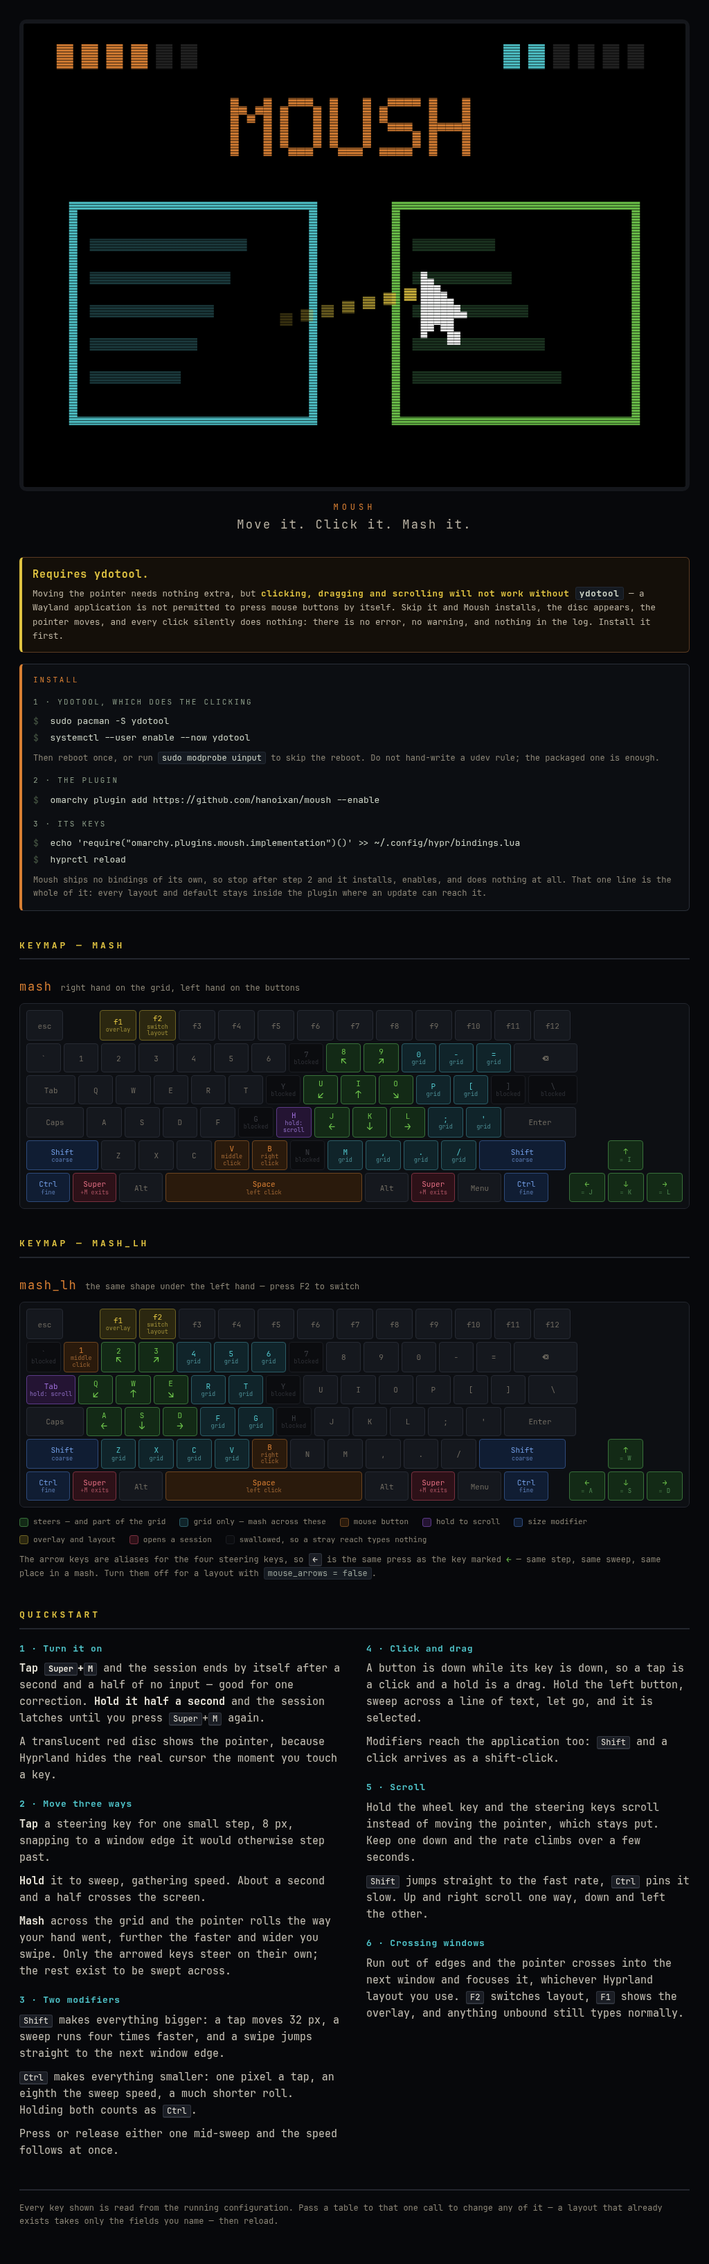
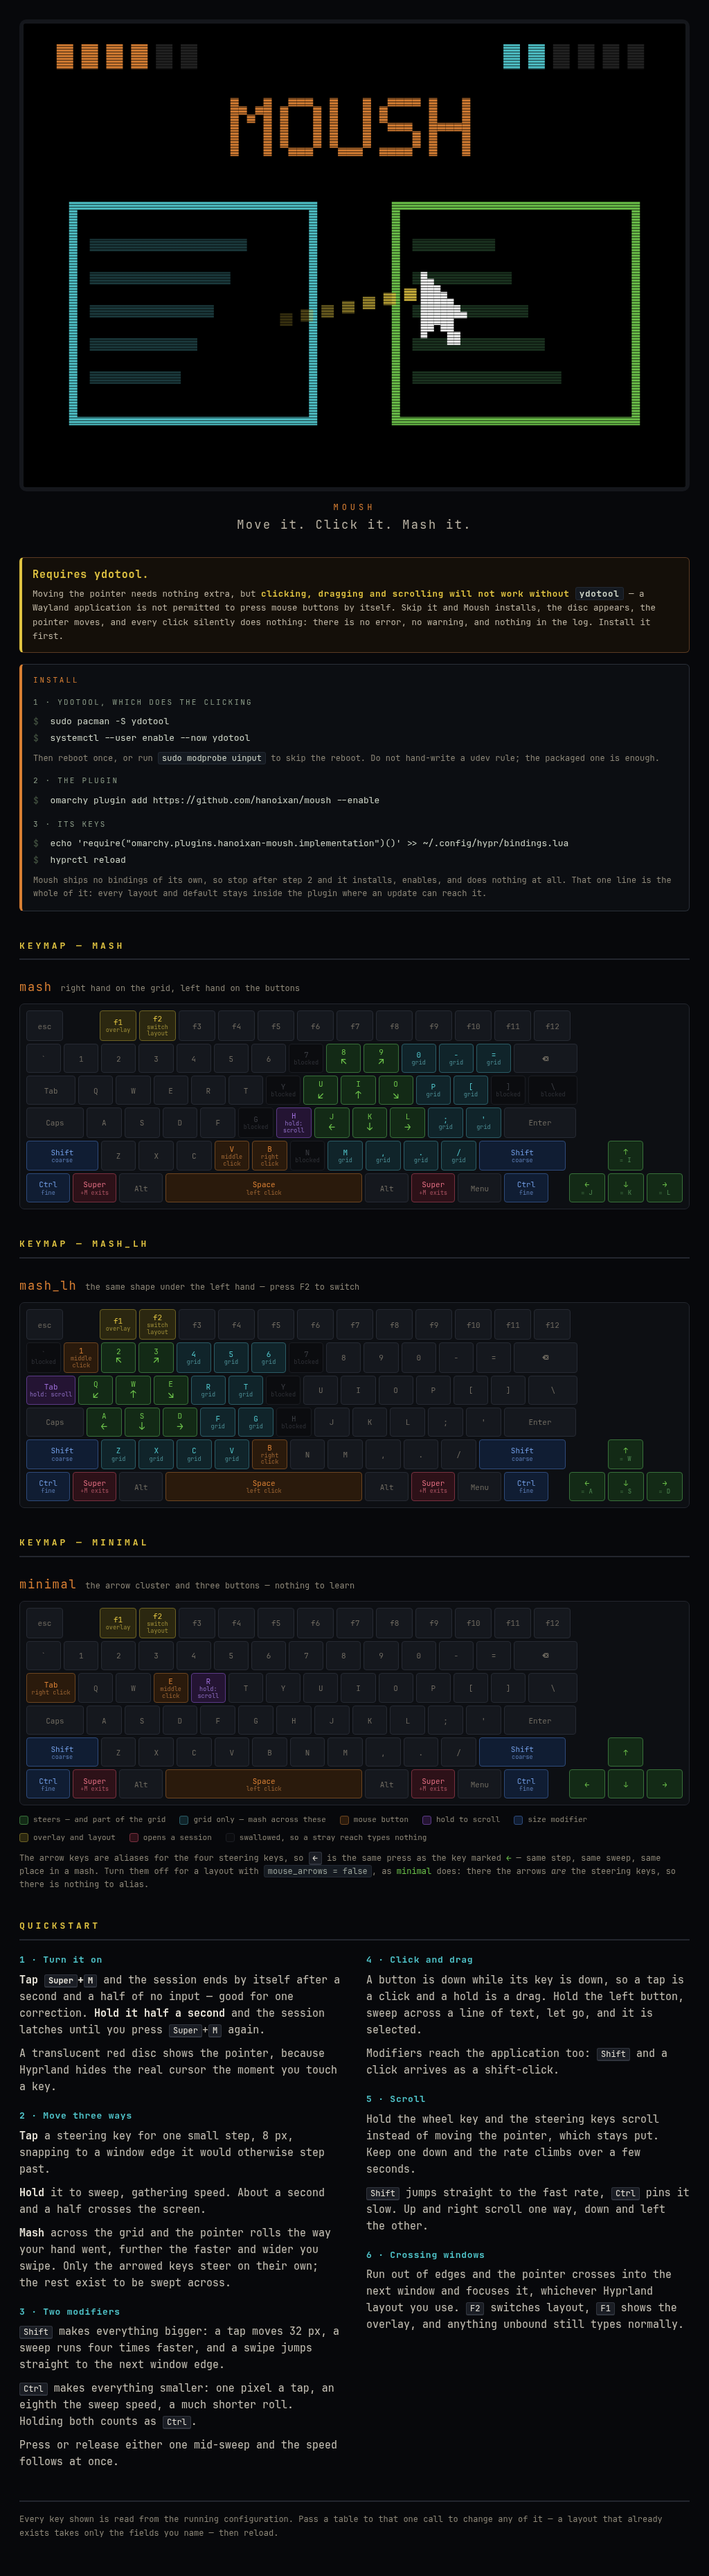
Namespace the plugin id as hanoixan-moush, and publish under the handle
The marketplace documents a namespaced id, with "yourname.plugin" as its example,
so a bare "moush" risks a reviewer asking for it to be renamed after publication.
A dot cannot be used here: the id becomes the install folder name, and require()
turns every dot into a directory separator, so a folder named moush.plugin is
unreachable by any dotted module path -- measured, Lua goes looking for
plugins/moush/plugin/implementation.lua instead. A hyphen namespaces it just as
well and keeps the one-line require, which was verified to load and to pass an
options table through.

Renamed the folder, the manifest id, the shell.json enablement record, and every
reference in the README, the page and the example. The GitHub URL is untouched:
the install folder is named from the manifest id, not the repo.

The author is the handle rather than a legal name, in the manifest and in the
LICENSE copyright line.

Verified after the rename: the manifest validates, the catalog lists
hanoixan-moush, the old id answers "unknown", all three submaps bind, and a
session opens, steers, mashes, clicks, cycles all three layouts and exits.

Claude-Session: https://claude.ai/code/session_01QCQs9JcoiEdegEtcQ2pzbD

diff --git a/docs/moush.html b/docs/moush.html
@@ -108,7 +108,7 @@ reboot. Do not hand-write a udev rule; the packaged one is enough.</p>
 <div class="cmd"><span class="p">$</span> omarchy plugin add https://github.com/hanoixan/moush --enable</div>
 
 <div class="istep">3 &middot; its keys</div>
-<div class="cmd"><span class="p">$</span> echo 'require("omarchy.plugins.moush.implementation")()' &gt;&gt; ~/.config/hypr/bindings.lua</div>
+<div class="cmd"><span class="p">$</span> echo 'require("omarchy.plugins.hanoixan-moush.implementation")()' &gt;&gt; ~/.config/hypr/bindings.lua</div>
 <div class="cmd"><span class="p">$</span> hyprctl reload</div>
 <p class="inote">Moush ships no bindings of its own, so stop after step 2 and it
 installs, enables, and does nothing at all. That one line is the whole of it: every
@@ -322,11 +322,116 @@ layout and default stays inside the plugin where an update can reach it.</p>
 <div class="key r-steer" style="flex:1"><span class="cap">→</span><span class="note alias">= D</span></div>
 </div>
 </div>
+
+<h2>Keymap &mdash; minimal</h2>
+<div class="modename"><span class="n">minimal</span>
+<span class="d">the arrow cluster and three buttons &mdash; nothing to learn</span></div>
+<div class="kb">
+<div class="kbrow">
+<div class="key" style="flex:1"><span class="cap">esc</span></div>
+<div class="kgap" style="flex:1"></div>
+<div class="key r-glob" style="flex:1"><span class="cap">f1</span><span class="note">overlay</span></div>
+<div class="key r-glob" style="flex:1"><span class="cap">f2</span><span class="note">switch layout</span></div>
+<div class="key" style="flex:1"><span class="cap">f3</span></div>
+<div class="key" style="flex:1"><span class="cap">f4</span></div>
+<div class="key" style="flex:1"><span class="cap">f5</span></div>
+<div class="key" style="flex:1"><span class="cap">f6</span></div>
+<div class="key" style="flex:1"><span class="cap">f7</span></div>
+<div class="key" style="flex:1"><span class="cap">f8</span></div>
+<div class="key" style="flex:1"><span class="cap">f9</span></div>
+<div class="key" style="flex:1"><span class="cap">f10</span></div>
+<div class="key" style="flex:1"><span class="cap">f11</span></div>
+<div class="key" style="flex:1"><span class="cap">f12</span></div>
+<div class="kgap" style="flex:3.5"></div>
+</div>
+<div class="kbrow">
+<div class="key" style="flex:1"><span class="cap">`</span></div>
+<div class="key" style="flex:1"><span class="cap">1</span></div>
+<div class="key" style="flex:1"><span class="cap">2</span></div>
+<div class="key" style="flex:1"><span class="cap">3</span></div>
+<div class="key" style="flex:1"><span class="cap">4</span></div>
+<div class="key" style="flex:1"><span class="cap">5</span></div>
+<div class="key" style="flex:1"><span class="cap">6</span></div>
+<div class="key" style="flex:1"><span class="cap">7</span></div>
+<div class="key" style="flex:1"><span class="cap">8</span></div>
+<div class="key" style="flex:1"><span class="cap">9</span></div>
+<div class="key" style="flex:1"><span class="cap">0</span></div>
+<div class="key" style="flex:1"><span class="cap">-</span></div>
+<div class="key" style="flex:1"><span class="cap">=</span></div>
+<div class="key" style="flex:2"><span class="cap">⌫</span></div>
+<div class="kgap" style="flex:3.5"></div>
+</div>
+<div class="kbrow">
+<div class="key r-btn" style="flex:1.5"><span class="cap">Tab</span><span class="note">right click</span></div>
+<div class="key" style="flex:1"><span class="cap">Q</span></div>
+<div class="key" style="flex:1"><span class="cap">W</span></div>
+<div class="key r-btn" style="flex:1"><span class="cap">E</span><span class="note">middle click</span></div>
+<div class="key r-wheel" style="flex:1"><span class="cap">R</span><span class="note">hold: scroll</span></div>
+<div class="key" style="flex:1"><span class="cap">T</span></div>
+<div class="key" style="flex:1"><span class="cap">Y</span></div>
+<div class="key" style="flex:1"><span class="cap">U</span></div>
+<div class="key" style="flex:1"><span class="cap">I</span></div>
+<div class="key" style="flex:1"><span class="cap">O</span></div>
+<div class="key" style="flex:1"><span class="cap">P</span></div>
+<div class="key" style="flex:1"><span class="cap">[</span></div>
+<div class="key" style="flex:1"><span class="cap">]</span></div>
+<div class="key" style="flex:1.5"><span class="cap">\</span></div>
+<div class="kgap" style="flex:3.5"></div>
+</div>
+<div class="kbrow">
+<div class="key" style="flex:1.75"><span class="cap">Caps</span></div>
+<div class="key" style="flex:1"><span class="cap">A</span></div>
+<div class="key" style="flex:1"><span class="cap">S</span></div>
+<div class="key" style="flex:1"><span class="cap">D</span></div>
+<div class="key" style="flex:1"><span class="cap">F</span></div>
+<div class="key" style="flex:1"><span class="cap">G</span></div>
+<div class="key" style="flex:1"><span class="cap">H</span></div>
+<div class="key" style="flex:1"><span class="cap">J</span></div>
+<div class="key" style="flex:1"><span class="cap">K</span></div>
+<div class="key" style="flex:1"><span class="cap">L</span></div>
+<div class="key" style="flex:1"><span class="cap">;</span></div>
+<div class="key" style="flex:1"><span class="cap">&#x27;</span></div>
+<div class="key" style="flex:2.25"><span class="cap">Enter</span></div>
+<div class="kgap" style="flex:3.5"></div>
+</div>
+<div class="kbrow">
+<div class="key r-mod" style="flex:2.25"><span class="cap">Shift</span><span class="note">coarse</span></div>
+<div class="key" style="flex:1"><span class="cap">Z</span></div>
+<div class="key" style="flex:1"><span class="cap">X</span></div>
+<div class="key" style="flex:1"><span class="cap">C</span></div>
+<div class="key" style="flex:1"><span class="cap">V</span></div>
+<div class="key" style="flex:1"><span class="cap">B</span></div>
+<div class="key" style="flex:1"><span class="cap">N</span></div>
+<div class="key" style="flex:1"><span class="cap">M</span></div>
+<div class="key" style="flex:1"><span class="cap">,</span></div>
+<div class="key" style="flex:1"><span class="cap">.</span></div>
+<div class="key" style="flex:1"><span class="cap">/</span></div>
+<div class="key r-mod" style="flex:2.75"><span class="cap">Shift</span><span class="note">coarse</span></div>
+<div class="kgap" style="flex:1.25"></div>
+<div class="key r-steer" style="flex:1"><span class="cap">↑</span></div>
+<div class="kgap" style="flex:1.25"></div>
+</div>
+<div class="kbrow">
+<div class="key r-mod" style="flex:1.25"><span class="cap">Ctrl</span><span class="note">fine</span></div>
+<div class="key r-chord" style="flex:1.25"><span class="cap">Super</span><span class="note">+M exits</span></div>
+<div class="key" style="flex:1.25"><span class="cap">Alt</span></div>
+<div class="key r-btn" style="flex:6.25"><span class="cap">Space</span><span class="note">left click</span></div>
+<div class="key" style="flex:1.25"><span class="cap">Alt</span></div>
+<div class="key r-chord" style="flex:1.25"><span class="cap">Super</span><span class="note">+M exits</span></div>
+<div class="key" style="flex:1.25"><span class="cap">Menu</span></div>
+<div class="key r-mod" style="flex:1.25"><span class="cap">Ctrl</span><span class="note">fine</span></div>
+<div class="kgap" style="flex:0.5"></div>
+<div class="key r-steer" style="flex:1"><span class="cap">←</span></div>
+<div class="key r-steer" style="flex:1"><span class="cap">↓</span></div>
+<div class="key r-steer" style="flex:1"><span class="cap">→</span></div>
+</div>
+</div>
 <div class="legend"><span><i class="sw" style="background:#132a16;border-color:#38703a"></i>steers &mdash; and part of the grid</span><span><i class="sw" style="background:#10242a;border-color:#2b5c66"></i>grid only &mdash; mash across these</span><span><i class="sw" style="background:#2a1a0c;border-color:#6d4520"></i>mouse button</span><span><i class="sw" style="background:#241433;border-color:#5b3a86"></i>hold to scroll</span><span><i class="sw" style="background:#101d33;border-color:#2e4a7a"></i>size modifier</span><span><i class="sw" style="background:#2b2710;border-color:#6d6224"></i>overlay and layout</span><span><i class="sw" style="background:#2d1118;border-color:#79303f"></i>opens a session</span><span><i class="sw" style="background:#0b0c0f;border-color:#1b1d22"></i>swallowed, so a stray reach types nothing</span></div>
 <p class="arrows">The arrow keys are aliases for the four steering keys, so
 <kbd>&larr;</kbd> is the same press as the key marked <span class="ar">&larr;</span>
 &mdash; same step, same sweep, same place in a mash. Turn them off for a layout
-with <code>mouse_arrows = false</code>.</p>
+with <code>mouse_arrows = false</code>, as <span class="ar">minimal</span> does:
+there the arrows <em>are</em> the steering keys, so there is nothing to alias.</p>
 
 
 <h2>Quickstart</h2>

diff --git a/Moush.qml b/Moush.qml
@@ -1325,7 +1325,9 @@ Item {
   }
 
   // ---- the debug overlay -----------------------------------------------------
-  property bool mashDebug: true
+  // Off on a fresh install: the overlay is a tool, not the product. F1 shows it.
+  // Not persisted, so it is off again after a shell restart.
+  property bool mashDebug: false
   property var dbgHits: []                    // {name, t} of the cluster's presses
   property var dbgStrats: ({})                // name -> {x, y, t}
   property real dbgDriveX: 0

diff --git a/tools/genpage.py b/tools/genpage.py
@@ -76,6 +76,10 @@ def keyboard(mode):
             if name == "":
                 out.append('<div class="kgap" style="flex:%g"></div>' % w); continue
             role, note = r.get(name, (None,None))
+            # On a layout that steers with the arrow keys themselves, the cap and
+            # the direction glyph are the same character. Showing it twice reads
+            # as a rendering fault, so say it once.
+            if note == lab: note = None
             cls = "key" + (" r-"+role if role else "")
             cls_note = "note alias" if (note or "").startswith("= ") else "note"
             sub = '<span class="%s">%s</span>' % (cls_note, html.escape(note)) if note else ""
@@ -311,7 +315,7 @@ reboot. Do not hand-write a udev rule; the packaged one is enough.</p>
 <div class="cmd"><span class="p">$</span> omarchy plugin add https://github.com/hanoixan/moush --enable</div>
 
 <div class="istep">3 &middot; its keys</div>
-<div class="cmd"><span class="p">$</span> echo 'require("omarchy.plugins.moush.implementation")()' &gt;&gt; ~/.config/hypr/bindings.lua</div>
+<div class="cmd"><span class="p">$</span> echo 'require("omarchy.plugins.hanoixan-moush.implementation")()' &gt;&gt; ~/.config/hypr/bindings.lua</div>
 <div class="cmd"><span class="p">$</span> hyprctl reload</div>
 <p class="inote">Moush ships no bindings of its own, so stop after step 2 and it
 installs, enables, and does nothing at all. That one line is the whole of it: every
@@ -327,11 +331,17 @@ layout and default stays inside the plugin where an update can reach it.</p>
 <div class="modename"><span class="n">mash_lh</span>
 <span class="d">the same shape under the left hand &mdash; press F2 to switch</span></div>
 @@KB2@@
+
+<h2>Keymap &mdash; minimal</h2>
+<div class="modename"><span class="n">minimal</span>
+<span class="d">the arrow cluster and three buttons &mdash; nothing to learn</span></div>
+@@KB3@@
 @@LEGEND@@
 <p class="arrows">The arrow keys are aliases for the four steering keys, so
 <kbd>&larr;</kbd> is the same press as the key marked <span class="ar">&larr;</span>
 &mdash; same step, same sweep, same place in a mash. Turn them off for a layout
-with <code>mouse_arrows = false</code>.</p>
+with <code>mouse_arrows = false</code>, as <span class="ar">minimal</span> does:
+there the arrows <em>are</em> the steering keys, so there is nothing to alias.</p>
 
 @@QUICK@@
 
@@ -352,6 +362,7 @@ leg = '<div class="legend">' + "".join(
 out = (doc.replace("@@HERO@@", hero())
           .replace("@@KB1@@", keyboard("mash"))
           .replace("@@KB2@@", keyboard("mash_lh"))
+          .replace("@@KB3@@", keyboard("minimal"))
           .replace("@@LEGEND@@", leg)
           .replace("@@QUICK@@", QUICK))
 open(os.path.join(REPO, "docs", "moush.html"), "w").write(out)

diff --git a/README.md b/README.md
@@ -67,7 +67,7 @@ before you say yes.
 this step nothing responds:
 
 ```bash
-echo 'require("omarchy.plugins.moush.implementation")()' >> ~/.config/hypr/bindings.lua
+echo 'require("omarchy.plugins.hanoixan-moush.implementation")()' >> ~/.config/hypr/bindings.lua
 hyprctl reload
 ```
 
@@ -79,14 +79,14 @@ Press `Super` + `M` and a red disc should appear.
 
 If you would rather have the configuration notes in front of you,
 `bindings.lua.example` is the same call with the options written out around it, so
-`cat ~/.config/omarchy/plugins/moush/bindings.lua.example >> ~/.config/hypr/bindings.lua`
+`cat ~/.config/omarchy/plugins/hanoixan-moush/bindings.lua.example >> ~/.config/hypr/bindings.lua`
 works just as well.
 
 ### Updating and removing
 
 ```bash
-omarchy plugin update moush        # fast-forwards, revalidates, rolls back if it fails
-omarchy plugin remove moush
+omarchy plugin update hanoixan-moush        # fast-forwards, revalidates, rolls back if it fails
+omarchy plugin remove hanoixan-moush
 ```
 
 An update only touches the plugin, never `~/.config/hypr/bindings.lua`, so the one
@@ -101,10 +101,10 @@ replaces the `omarchy plugin add` step only -- `ydotool` and the binding line ar
 still needed. The folder has to be named for the plugin id, which is `moush`:
 
 ```bash
-git clone https://github.com/hanoixan/moush ~/.config/omarchy/plugins/moush
-omarchy plugin validate ~/.config/omarchy/plugins/moush
+git clone https://github.com/hanoixan/moush ~/.config/omarchy/plugins/hanoixan-moush
+omarchy plugin validate ~/.config/omarchy/plugins/hanoixan-moush
 omarchy-shell shell rescanPlugins
-omarchy plugin enable moush
+omarchy plugin enable hanoixan-moush
 ```
 
 `omarchy plugin update` still works on a hand-cloned copy, since it is an ordinary
@@ -129,23 +129,28 @@ aim with.
 
 ## The keys
 
-Two layouts ship. `mash` sits under the right hand, `mash_lh` under the left. `F2`
-switches between them, and your choice is remembered between sessions and across a
-shell restart.
+Three layouts ship. `mash` sits under the right hand, `mash_lh` under the left, and
+`minimal` is the arrow cluster on its own. `F2` cycles through them in alphabetical
+order, and your choice is remembered between sessions and across a shell restart.
+A fresh install starts on `mash`.
 
 ```
-mash                        mash_lh
+mash                  mash_lh               minimal
 
- 8 9 0 - =                   2 3 4 5 6
-U I O P [     the grid      Q W E R T
-J K L ; '                   A S D F G
- M , . /                     Z X C V
+ 8 9 0 - =             2 3 4 5 6                 up         the grid
+U I O P [             Q W E R T             left down right
+J K L ; '             A S D F G
+ M , . /               Z X C V
 
-space V B     buttons       space B Tab      left, middle, right
-H     hold    scroll        CapsLock hold
+space  V  B           space  1  B           space  E  Tab   buttons: left, middle, right
+H                     Tab                   R               hold to scroll
 ```
 
-Three keys do the same thing in either layout, so they are set once rather than per
+`minimal` exists for anyone who wants the pointer without learning a layout: the
+four arrow keys steer, three keys click, and that is all of it. There is no grid to
+mash across, though a swipe over the four still reads as a direction.
+
+These are the same in all three layouts, so they are set once rather than per
 layout:
 
 ```
@@ -165,7 +170,8 @@ reach does not spill letters into whatever you were writing.
 Eight keys steer. In `mash` they are `I` up, `K` down, `J` left, `L` right, with
 `8` `9` `U` `O` for the four diagonals; in `mash_lh`, `W` `S` `A` `D` and `2` `3`
 `Q` `E`. The rest of the grid has no direction of its own and does nothing when
-tapped alone; those keys exist for mashing.
+tapped alone; those keys exist for mashing. `minimal` is the exception: four keys
+steer and there are no diagonals.
 
 The two lower diagonals are picked for where the fingers fall rather than for where
 the keys sit, so `U` means down-left from a key that is physically up-left. That
@@ -259,7 +265,8 @@ still build on each other, which is what makes a swipe gather speed.
 ## Clicking and dragging
 
 In `mash` the buttons are `space`, `V` and `B` for left, middle and right; in
-`mash_lh`, `space`, `B` and `Tab`. They sit under the hand that is not mashing. A
+`mash_lh`, `space`, `1` and `B`; in `minimal`, `space`, `E` and `Tab`. They sit
+under the hand that is not mashing. A
 button is down while its key is down, so a tap is a click and a hold is a drag.
 Hold `space`, sweep across a line of text, and let go, and the text is selected
 exactly as a mouse would have selected it. Clicking also focuses whatever window
@@ -341,7 +348,7 @@ The defaults live in the plugin. You change them by passing a table to the same
 call that installed it, in `~/.config/hypr/bindings.lua`:
 
 ```lua
-require("omarchy.plugins.moush.implementation")({
+require("omarchy.plugins.hanoixan-moush.implementation")({
   coarse_mod = "ALT",
   idle_ms    = 3000,
 })
@@ -361,7 +368,7 @@ So this moves the scroll key in `mash` and leaves its grid, its directions and i
 buttons exactly as they shipped:
 
 ```lua
-require("omarchy.plugins.moush.implementation")({
+require("omarchy.plugins.hanoixan-moush.implementation")({
   modes = { mash = { wheel = "G" } },
 })
 ```
@@ -404,6 +411,7 @@ own keys, so the two can share nothing at all:
     },
 
     ["mash_lh"] = { ... },
+    ["minimal"] = { ... },
   },
 }
 ```
@@ -430,6 +438,10 @@ bindings: pressing `Left` *is* pressing whichever key `dirs` maps to `left`, wit
 the same step, the same sweep when held, the same place in a mash. Measured, a
 gesture ending on the up key and the same gesture ending on the up arrow roll
 identically.
+
+`minimal` sets it to `false`, because there the arrow keys *are* the steering keys.
+Aliasing them to themselves would bind each one twice at every modifier, and a
+duplicate binding is resolved silently in favour of whichever was declared first.
 
 ### The two modifiers
 
@@ -588,7 +600,7 @@ name.
 You can ask a running session what it thinks is going on:
 
 ```bash
-omarchy-shell shell call moush probe ""
+omarchy-shell shell call hanoixan-moush probe ""
 ```
 
 If the shell itself gets stuck holding the keyboard, `Ctrl + Alt + Escape` restores
